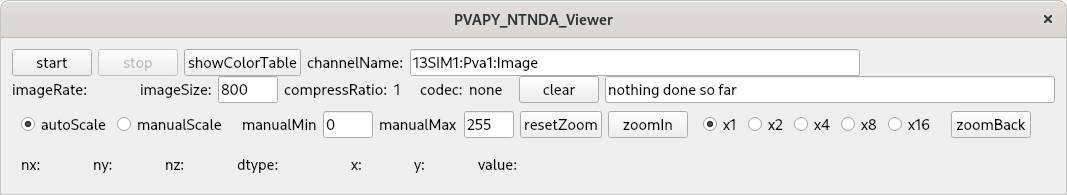
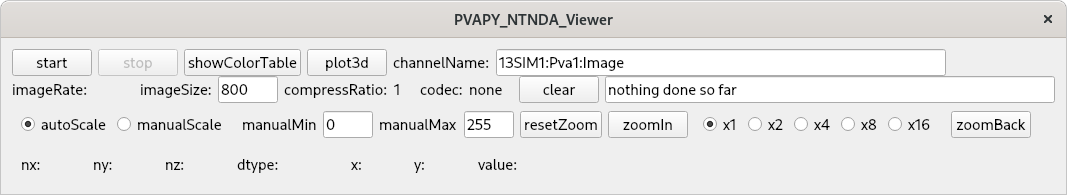
update doc

Changed region(s): [[0.2784, 0.2462, 0.5876, 0.4], [0.8041, 0.3692, 0.8969, 0.4], [0.8041, 0.2462, 0.8969, 0.2769]]

diff --git a/PY_NTNDA_Viewer/PY_NTNDA_Viewer.md b/PY_NTNDA_Viewer/PY_NTNDA_Viewer.md
@@ -1,7 +1,7 @@
 # PY_NTNDA_Viewer
 
 Author: Marty Kraimer
-Date: 2020.09.24
+Date: 2020.10.19
 
 ## Overview
 
@@ -31,6 +31,7 @@ For example issue the command:
 The following is a list of modules required by PY_NTNDA_Viewer
 
     numpy
+    matplotlib
     PyQt5
     PyQt5-sip
     QtPy
@@ -58,6 +59,7 @@ When start is pressed the following appears:
 - **start** Clicking this button starts communication with the server
 - **stop** Clicking this button stops communication with the server
 - **showColorTable** Clicking this brings up the ColorTable window. See below for details
+- **plpt3d** Clicking on this brings up 3d image window. See bwlow for details.
 - **channelName** This is the name of the channel that provides the NTNDArray. When in stopped mode a new channel name can be specified.
 
 
@@ -257,6 +259,22 @@ For example if julia is selected and the image is zoomed, I see:
 
 Then issue mouse clicks in the image and look at the new widow that appears.
 Moving the mouse in the new window shows the pixel location and value.
+
+## plot3d
+
+If you have zoomed to the following:
+
+![](image1.png)
+
+And then click plot3d the followimg appears:
+
+![](plot3d.png)
+
+Use the mouse to grab the bottom corner of the axes and moving the mouse other views appear.
+For example
+
+[](plot3d1.png)
+
 
 ## Some Code Details
 
